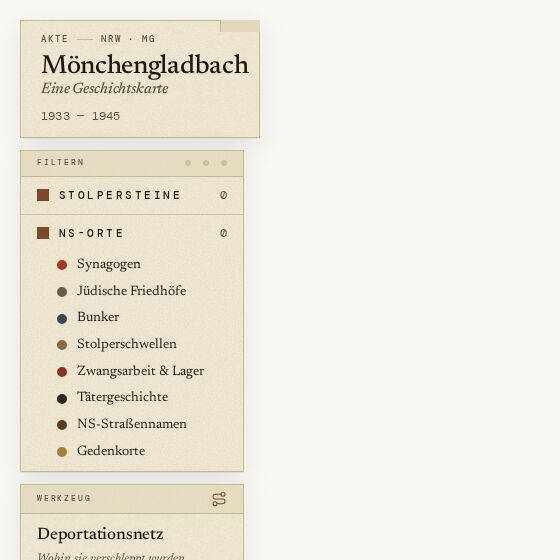
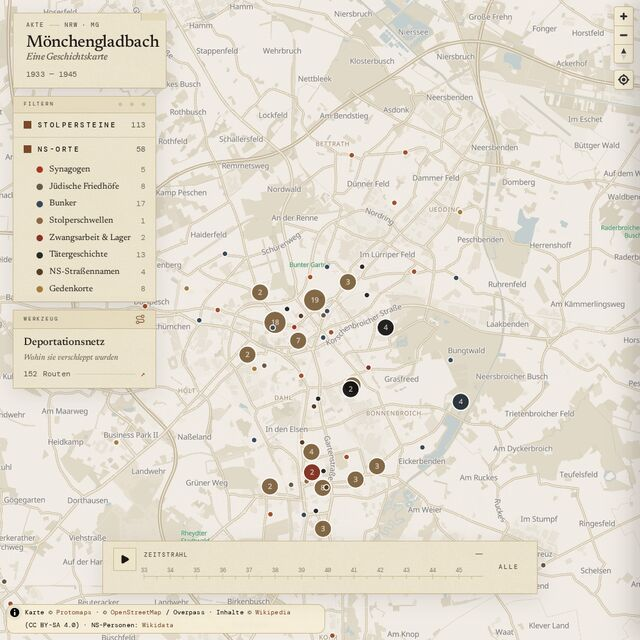
chore: refresh moenchengladbach-history screenshot

diff --git a/index.html b/index.html
@@ -142,7 +142,7 @@
             </div>
           </li>
           <li class="row" data-reveal>
-            <img class="thumb" src="./assets/mg-history.jpg" width="560" height="560" alt="" loading="lazy" />
+            <img class="thumb" src="./assets/mg-history.jpg" width="640" height="640" alt="" loading="lazy" />
             <a class="row-name" href="https://moenchengladbach-history.gartz.dev" target="_blank" rel="noopener noreferrer">moenchengladbach&shy;-history</a>
             <div class="row-info">
               <p>The history of Mönchengladbach on an interactive map.</p>
